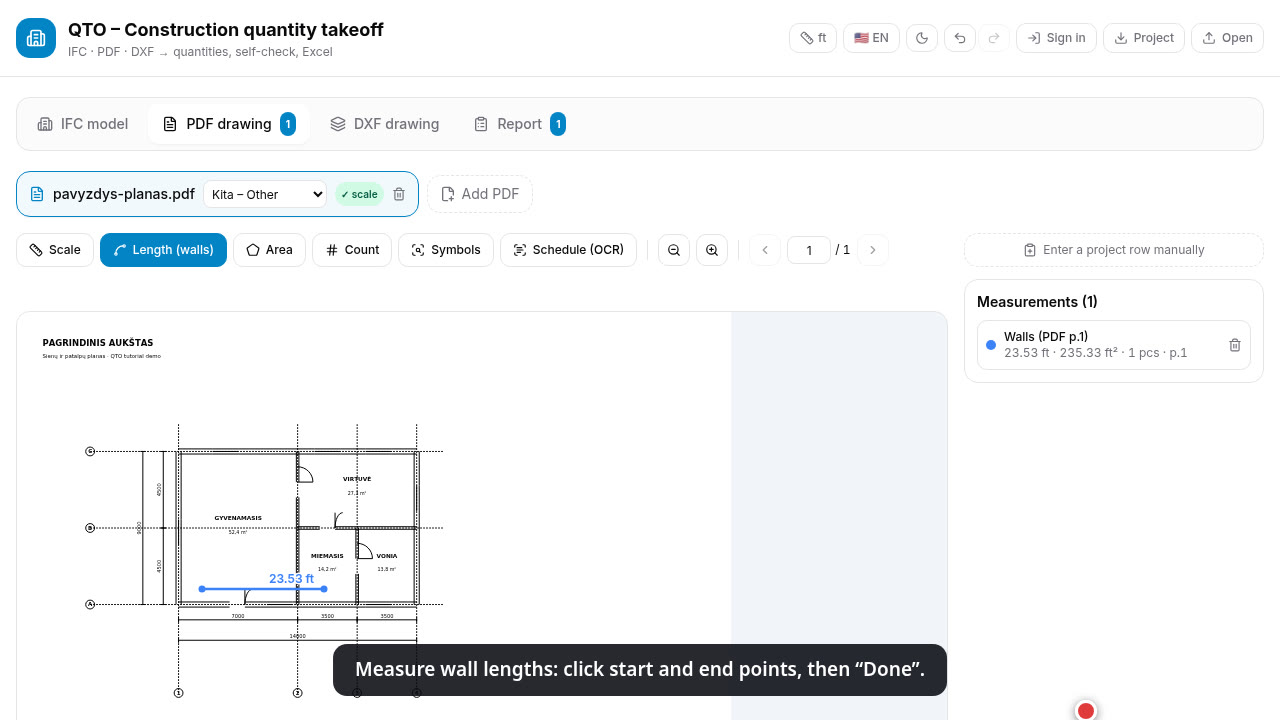
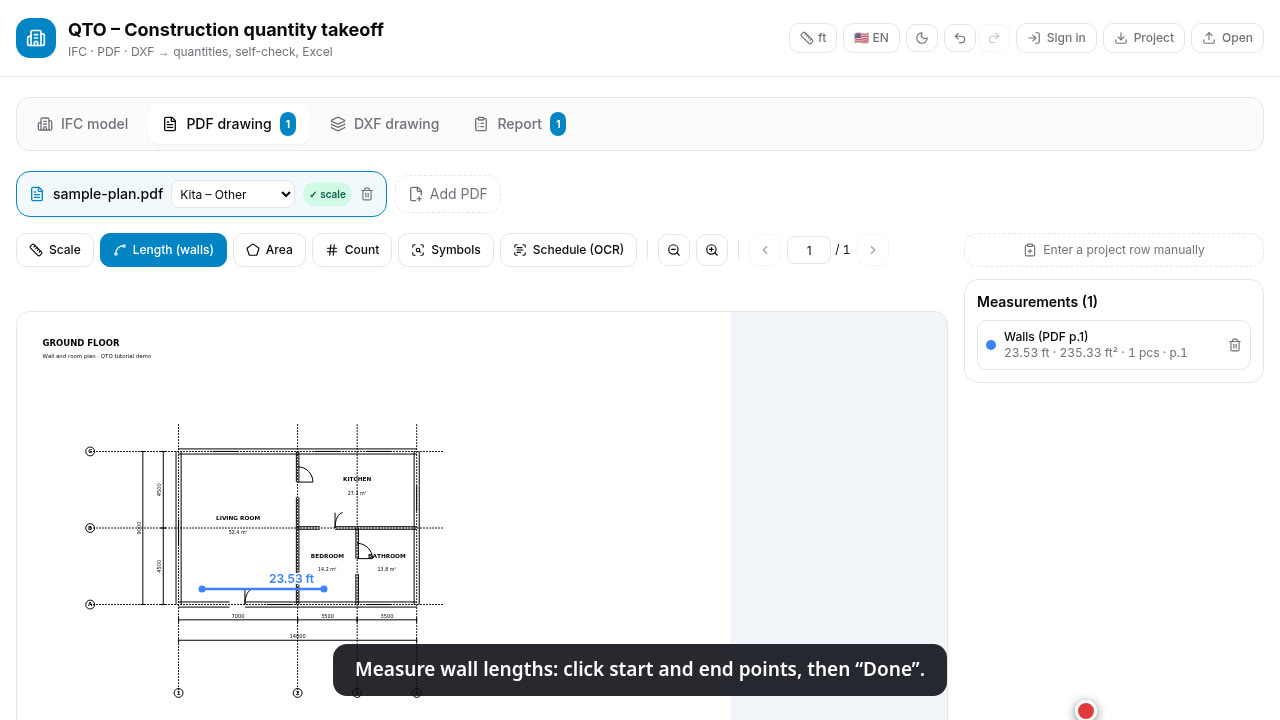
EN patalpų pavadinimai ir EN planas

Changed region(s): [[0.0312, 0.2444, 0.4062, 0.3056], [0.0312, 0.4583, 0.125, 0.5194], [0.2812, 0.7639, 0.3125, 0.7944]]

diff --git a/src/landing/components/BlueprintPlan.tsx b/src/landing/components/BlueprintPlan.tsx
@@ -154,12 +154,12 @@ export default function BlueprintPlan() {
 
       {/* Patalpų žymos */}
       <motion.g initial={{ opacity: 0 }} animate={{ opacity: 1 }} transition={{ delay: 2.6 }}>
-        <text x={360} y={400} textAnchor="middle" fontSize={26} fill="#e2e8f0" letterSpacing={2}>GYVENAMASIS</text>
-        <text x={360} y={432} textAnchor="middle" fontSize={18} fill="#7dd3fc" className="font-dim">31,4 m²</text>
-        <text x={885} y={330} textAnchor="middle" fontSize={22} fill="#e2e8f0" letterSpacing={2}>MIEMASIS</text>
-        <text x={885} y={360} textAnchor="middle" fontSize={16} fill="#7dd3fc" className="font-dim">14,2 m²</text>
-        <text x={885} y={640} textAnchor="middle" fontSize={20} fill="#e2e8f0" letterSpacing={2}>VONIA</text>
-        <text x={885} y={668} textAnchor="middle" fontSize={15} fill="#7dd3fc" className="font-dim">6,1 m²</text>
+        <text x={360} y={400} textAnchor="middle" fontSize={26} fill="#e2e8f0" letterSpacing={2}>{t.hero.demoRoomA}</text>
+        <text x={360} y={432} textAnchor="middle" fontSize={18} fill="#7dd3fc" className="font-dim">{t.hero.demoRoomAArea}</text>
+        <text x={885} y={330} textAnchor="middle" fontSize={22} fill="#e2e8f0" letterSpacing={2}>{t.hero.demoRoomB}</text>
+        <text x={885} y={360} textAnchor="middle" fontSize={16} fill="#7dd3fc" className="font-dim">{t.hero.demoRoomBArea}</text>
+        <text x={885} y={640} textAnchor="middle" fontSize={20} fill="#e2e8f0" letterSpacing={2}>{t.hero.demoRoomC}</text>
+        <text x={885} y={668} textAnchor="middle" fontSize={15} fill="#7dd3fc" className="font-dim">{t.hero.demoRoomCArea}</text>
       </motion.g>
 
       {/* Matmenų linija apačioje */}

diff --git a/src/sections/PdfSection.tsx b/src/sections/PdfSection.tsx
@@ -27,7 +27,7 @@ interface Props {
 
 /** Projekto režimas: keli susiję PDF failai (A, SK, VK dalys) kaip viena visuma */
 export default function PdfSection({ items, onData, savedFilesMeta, locate = null }: Props) {
-  const { t } = useI18n();
+  const { t, locale } = useI18n();
   const [files, setFiles] = useState<PdfFileEntry[]>([]);
   const [activeId, setActiveId] = useState<string | null>(null);
   const [adding, setAdding] = useState(false);
@@ -146,7 +146,7 @@ export default function PdfSection({ items, onData, savedFilesMeta, locate = nul
         label={t.pdf.drop}
         hint={t.pdf.hint}
         onFile={addFile}
-        sample={{ url: '/pavyzdys-planas.pdf', fileName: 'pavyzdys-planas.pdf' }}
+        sample={{ url: locale === 'en' ? '/sample-plan.pdf' : '/pavyzdys-planas.pdf', fileName: locale === 'en' ? 'sample-plan.pdf' : 'pavyzdys-planas.pdf' }}
       />
       <EmptyGuide />
       </div>

diff --git a/src/i18n/en.ts b/src/i18n/en.ts
@@ -16,6 +16,9 @@ const en: typeof lt = {
     planSheet: 'A-101 · floor plan · 1/8"=1\'-0"', planScale: '✓ scale',
     tagV2: 'v2 · quantity takeoff',
     demoDim: '16.1 ft', demoChip: '03.1 Walls · 16.1 ft ✓',
+    demoRoomA: 'LIVING ROOM', demoRoomAArea: '31.4 m²',
+    demoRoomB: 'BEDROOM', demoRoomBArea: '14.2 m²',
+    demoRoomC: 'BATHROOM', demoRoomCArea: '6.1 m²',
     demoA: 'The demo replays itself — or move your mouse: the cursor',
     demoB: 'snaps to corners', demoC: ', just like in the app',
     stats: [

diff --git a/src/i18n/lt.ts b/src/i18n/lt.ts
@@ -14,6 +14,9 @@ const lt = {
     planSheet: 'A-101 · aukštų planas · M1:100', planScale: '✓ mastelis',
     tagV2: 'v2 · kiekių surinkimas',
     demoDim: '4,90 m', demoChip: '03.1 Sienos · 4,90 m ✓',
+    demoRoomA: 'GYVENAMASIS', demoRoomAArea: '31,4 m²',
+    demoRoomB: 'MIEMASIS', demoRoomBArea: '14,2 m²',
+    demoRoomC: 'VONIA', demoRoomCArea: '6,1 m²',
     demoA: 'Demonstracija kartojasi pati — arba užveskite pelę: kursorius',
     demoB: 'prisiriša prie kampų', demoC: ', kaip programoje',
     stats: [